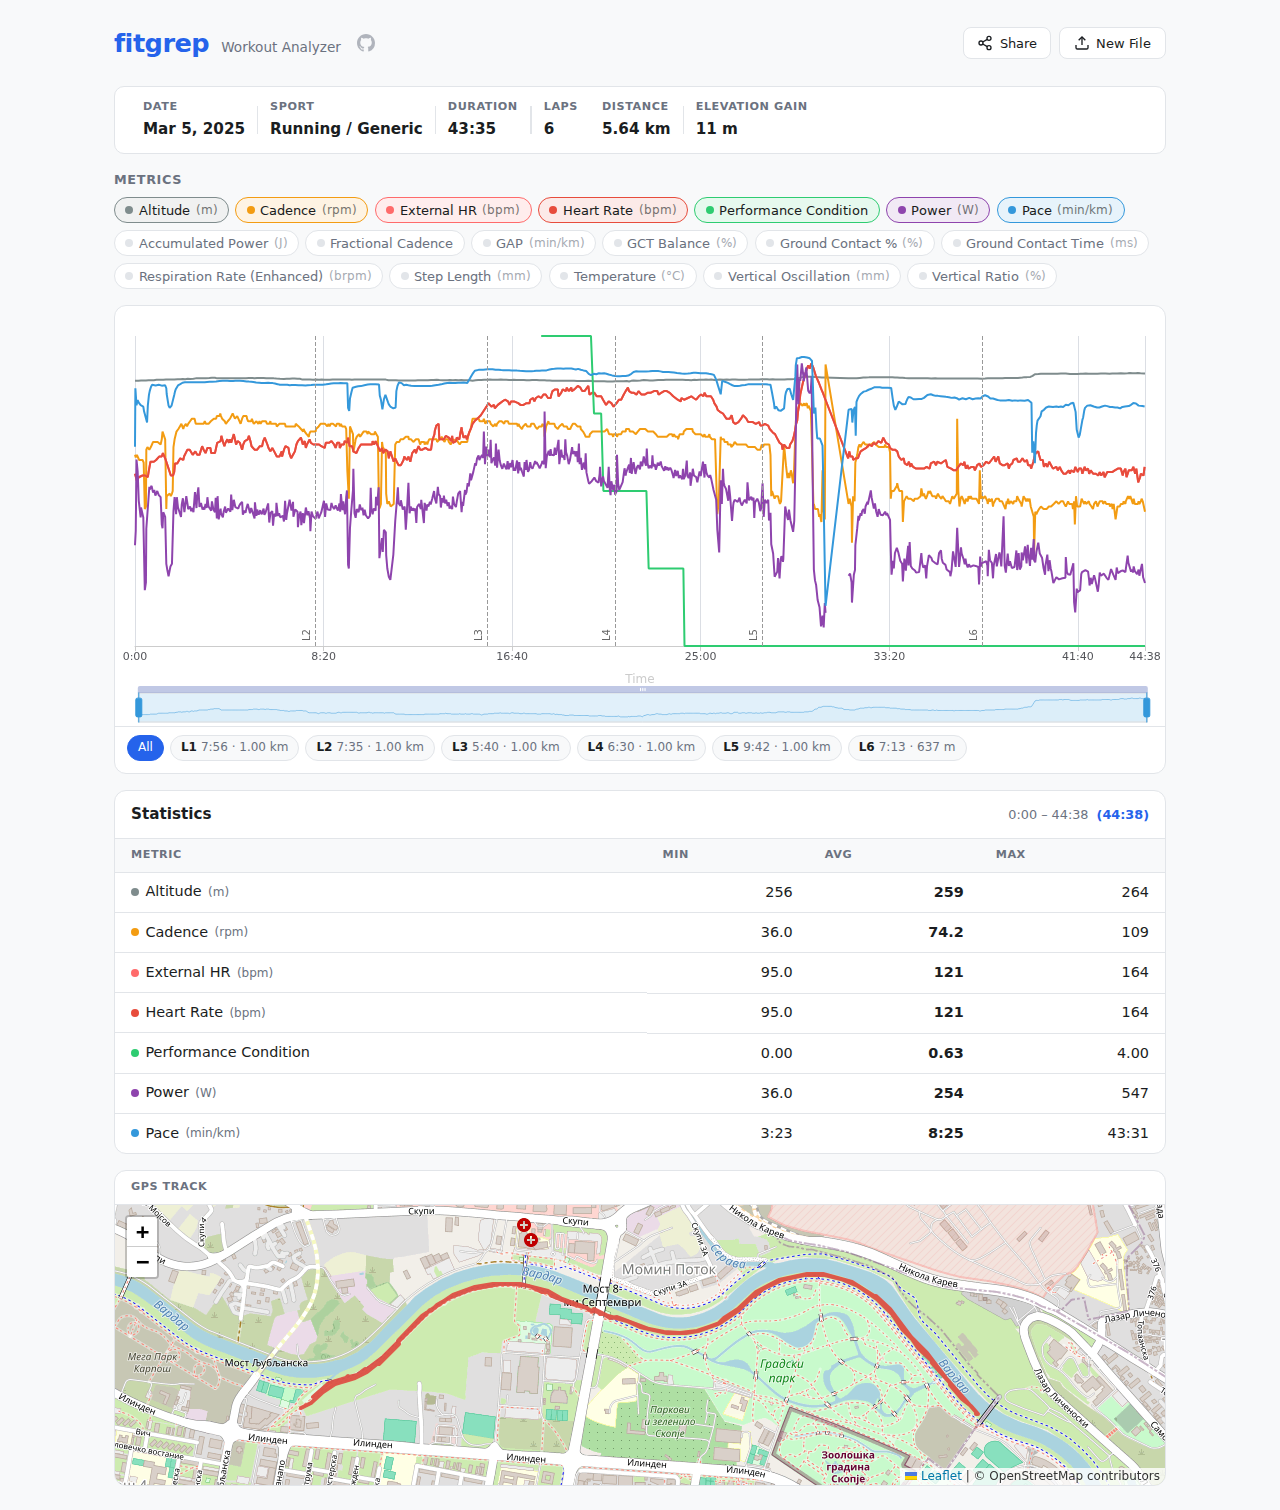
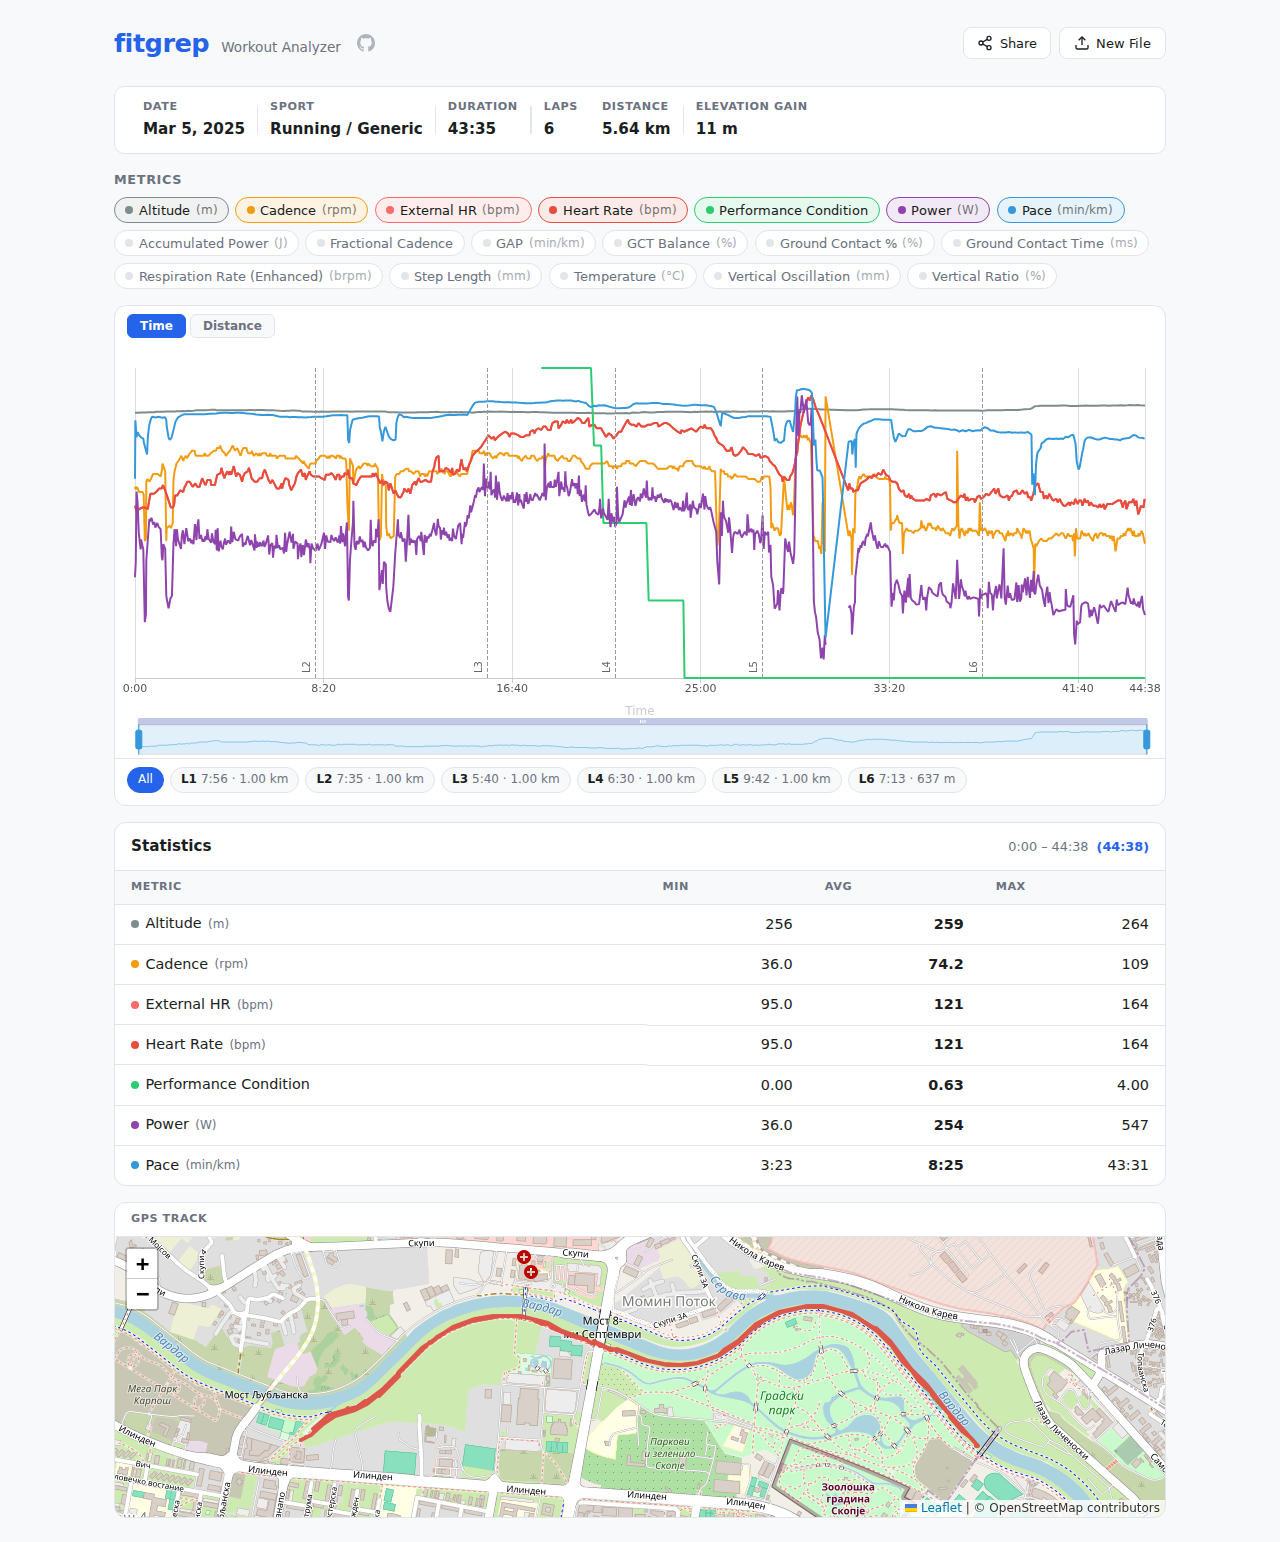
refactor: hoist lap startDistance to parser, derive hasDistance, slim AGENTS.md
Chart/parser:
- Move cumulative-distance-at-lap-start computation from the chart's
  $effect into parser.ts. Uses a monotonic cursor walk (O(n+m) instead
  of O(n·m)). New optional LapInfo.startDistance field.
- Replace `hasDistance` $state-written-inside-$effect with a $derived
  from store.data. Removes the reactive-write-in-effect anti-pattern.
- Collapse 8 repeated `axis === 'distance' && hasDistance` ternaries to
  a single `useDistance` + `fmtX` pair inside the rebuild effect.
- Fix inconsistent indentation on the axis-toggle buttons.

Tests:
- test-fitgrep.cjs was pointing at the deployed site; switch to
  http://localhost:5173 so it actually exercises local changes.
- Replace the fragile `Object.keys(chartEl).find(k => chartEl[k].getOption)`
  scan in test-lap-lines.cjs with a stable `chartEl.__echarts` property
  set by WorkoutChart after init.

Docs:
- Rewrite AGENTS.md (~8.8KB -> ~3.4KB): drop duplicated test sections,
  the full sharing runbook (now in worker/README.md), per-component
  descriptions, and the patch field table (now in patches/). Keep the
  design decisions, gotchas, and commands that agents actually need.

Verified: svelte-check clean, build passes, both Playwright tests pass
against local dev server (lap lines at 1002/2003/3002/4003/5003m).

diff --git a/src/components/WorkoutChart.svelte b/src/components/WorkoutChart.svelte
@@ -8,7 +8,9 @@
 	let chart: EChartsType | null = $state(null);
 	let resizeObserver: ResizeObserver | null = null;
 	let chartReady = $state(false);
-	let hasDistance = $state(false);
+	// Derived — true when the loaded workout has a distance stream.
+	// Used to gate the Time/Distance toggle and x-axis mode.
+	const hasDistance = $derived(store.data?.records?.[0]?.distance != null);
 
 	// Guard flag: suppress datazoom events during programmatic zoom changes
 	let suppressingZoomEvents = false;
@@ -16,6 +18,9 @@
 	onMount(async () => {
 		const echarts = await import('echarts');
 		chart = echarts.init(chartEl, undefined, { renderer: 'canvas' });
+		// Expose instance on the DOM node for tests (stable across ECharts versions,
+		// unlike scanning enumerable properties for one with a getOption method).
+		(chartEl as any).__echarts = chart;
 		chartReady = true;
 		resizeObserver = new ResizeObserver(() => chart?.resize());
 		resizeObserver.observe(chartEl);
@@ -98,8 +103,10 @@
 			return;
 		}
 
-		// Check if distance field is available in records
-		hasDistance = records.length > 0 && records[0].distance != null;
+		// Shared helpers for x-axis basis. Once distance mode is decided, the rest of
+		// the build just calls fmtX() and reads useDistance — no more scattered ternaries.
+		const useDistance = axis === 'distance' && hasDistance;
+		const fmtX = (v: number) => (useDistance ? formatDistance(v) : formatElapsed(v));
 
 		// Build Y-axes: each enabled field gets its own axis (all hidden, so no visual clutter)
 		const axisMap = new Map<string, number>();
@@ -115,7 +122,7 @@
 			type: 'line' as const,
 			data: records.map((r) => {
 				const val = r[field.key];
-				const xVal = axis === 'distance' && r.distance != null ? r.distance : r.elapsed;
+				const xVal = useDistance && r.distance != null ? r.distance : r.elapsed;
 				return val != null ? [xVal, val] : [xVal, null];
 			}),
 			yAxisIndex: axisMap.get(field.key) ?? 0,
@@ -129,20 +136,12 @@
 			connectNulls: false,
 		}));
 
-		// Build markLines: use lap boundaries if available, otherwise fall back to 5-min intervals
+		// Build markLines: use lap boundaries if available, otherwise fall back to 5-min intervals.
+		// lap.startDistance is populated upstream in parser.ts — no per-rebuild lookup needed.
 		const markLineData: any[] = [];
 		if (laps.length > 0) {
-			// Compute cumulative distance at each lap start (for distance-axis mark lines)
-			const lapCumulativeDistances = laps.map((lap) => {
-				// Find the record at the lap's start elapsed time
-				let idx = 0;
-				for (let j = 0; j < records.length; j++) {
-					if (records[j].elapsed >= lap.startElapsed) { idx = j; break; }
-				}
-				return records[idx]?.distance ?? null;
-			});
 			for (let i = 1; i < laps.length; i++) {
-				const lapXVal = axis === 'distance' && lapCumulativeDistances[i] != null ? lapCumulativeDistances[i] : laps[i].startElapsed;
+				const lapXVal = useDistance && laps[i].startDistance != null ? laps[i].startDistance! : laps[i].startElapsed;
 				markLineData.push({
 					xAxis: lapXVal,
 					label: {
@@ -159,15 +158,14 @@
 				});
 			}
 		} else {
-			const maxVal = axis === 'distance' && hasDistance
-				? records[records.length - 1].distance!
-				: records[records.length - 1].elapsed;
-			const interval = axis === 'distance' && hasDistance ? 500 : 300;
+			const lastRec = records[records.length - 1];
+			const maxVal = useDistance ? lastRec.distance! : lastRec.elapsed;
+			const interval = useDistance ? 500 : 300;
 			for (let t = interval; t < maxVal; t += interval) {
 				markLineData.push({
 					xAxis: t,
 					label: {
-						formatter: axis === 'distance' && hasDistance ? formatDistance(t) : formatElapsed(t),
+						formatter: fmtX(t),
 						position: 'insideStartTop' as const,
 						fontSize: 10,
 						color: '#999',
@@ -207,7 +205,7 @@
 				formatter: (params: any[]) => {
 					if (!params || params.length === 0) return '';
 					const axisVal = params[0].axisValue;
-					let html = `<div style="font-weight:600;margin-bottom:4px">${axis === 'distance' && hasDistance ? formatDistance(axisVal) : formatElapsed(axisVal)}</div>`;
+					let html = `<div style="font-weight:600;margin-bottom:4px">${fmtX(axisVal)}</div>`;
 					for (const p of params) {
 						const yVal = Array.isArray(p.value) ? p.value[1] : p.value;
 						if (yVal != null) {
@@ -226,13 +224,13 @@
 			},
 			xAxis: {
 				type: 'value',
-				name: axis === 'distance' && hasDistance ? 'Distance' : 'Time',
+				name: useDistance ? 'Distance' : 'Time',
 				nameLocation: 'center',
 				nameGap: 30,
 				min: 'dataMin',
 				max: 'dataMax',
 				axisLabel: {
-					formatter: (val: number) => (axis === 'distance' && hasDistance ? formatDistance(val) : formatElapsed(val)),
+					formatter: fmtX,
 					fontSize: 11,
 				},
 				axisLine: { lineStyle: { color: '#ccc' } },
@@ -265,7 +263,7 @@
 						lineStyle: { color: '#3498db' },
 						areaStyle: { color: 'rgba(52, 152, 219, 0.1)' },
 					},
-					labelFormatter: (val: number) => (axis === 'distance' && hasDistance ? formatDistance(val) : formatElapsed(val)),
+					labelFormatter: fmtX,
 				},
 				{
 					type: 'inside',
@@ -350,11 +348,11 @@
 		<div class="axis-toggle">
 			<button
 				class="axis-btn {store.chartAxis === 'time' ? 'active' : ''}"
-			onclick={() => store.setChartAxis('time')}
+				onclick={() => store.setChartAxis('time')}
 			>Time</button>
 			<button
 				class="axis-btn {store.chartAxis === 'distance' ? 'active' : ''}"
-			onclick={() => store.setChartAxis('distance')}
+				onclick={() => store.setChartAxis('distance')}
 			>Distance</button>
 		</div>
 	{/if}

diff --git a/src/lib/parser.ts b/src/lib/parser.ts
@@ -184,9 +184,12 @@ export async function parseFitFile(buffer: ArrayBuffer): Promise<WorkoutData> {
 		if (summary.maxSpeed != null) summary.maxSpeed *= 3.6;
 	}
 
-	// Extract lap data
+	// Extract lap data. Since both laps and dataPoints are time-ordered, we walk
+	// records with a monotonic cursor to attach cumulative distance at each lap
+	// start in O(n + m) rather than O(n·m).
 	const laps: LapInfo[] = [];
 	const fitLaps: any[] = raw.laps ?? [];
+	let recordCursor = 0;
 	for (let i = 0; i < fitLaps.length; i++) {
 		const lap = fitLaps[i];
 		const startTs = lap.start_time ? new Date(lap.start_time).getTime() : null;
@@ -208,12 +211,20 @@ export async function parseFitFile(buffer: ArrayBuffer): Promise<WorkoutData> {
 			endElapsed = i < fitLaps.length - 1 && fitLaps[i + 1].start_time ? (new Date(fitLaps[i + 1].start_time).getTime() - firstTimestamp) / 1000 : dataPoints[dataPoints.length - 1].elapsed;
 		}
 
+		// Advance cursor to the first record at or after this lap's start
+		const clampedStart = Math.max(0, startElapsed);
+		while (recordCursor < dataPoints.length && dataPoints[recordCursor].elapsed < clampedStart) {
+			recordCursor++;
+		}
+		const startDistance = dataPoints[recordCursor]?.distance;
+
 		laps.push({
 			number: i + 1,
-			startElapsed: Math.max(0, startElapsed),
+			startElapsed: clampedStart,
 			endElapsed: Math.max(startElapsed, endElapsed),
 			duration: duration ?? (endElapsed - startElapsed),
 			distance: lap.total_distance ?? null,
+			startDistance,
 			trigger: (lap.lap_trigger ?? '').toLowerCase().replace(/_/g, ' '),
 		});
 	}

diff --git a/src/lib/types.ts b/src/lib/types.ts
@@ -66,6 +66,8 @@ export interface LapInfo {
 	duration: number;
 	/** Distance in meters, if available */
 	distance: number | null;
+	/** Cumulative distance (m) at lap start, from the record stream — use this to plot lap boundaries on a distance x-axis */
+	startDistance?: number;
 	/** Trigger type (e.g. 'manual', 'distance', 'time') */
 	trigger: string;
 }

diff --git a/AGENTS.md b/AGENTS.md
@@ -1,171 +1,70 @@
 # fitgrep — Agent Guide
 
-## Project Overview
+Single-page web app for exploring Garmin `.FIT` workout files. Charts + GPS map + MIN/AVG/MAX stats with timeline selection. Frontend-only; optional Cloudflare Worker (`worker/`) powers share-by-link.
 
-Single-page web app that lets athletes upload Garmin .FIT workout files and explore performance data through interactive charts with timeline-based selection for MIN/AVG/MAX statistics. Frontend-only app with an optional Cloudflare Worker backend for share-by-link functionality.
+## Stack
 
-## Tech Stack
+- **Svelte 5 + TypeScript** — runes-based reactivity (`$state`, `$derived`, `$effect`)
+- **Vite** build
+- **`fit-file-parser`** — NOT `@garmin/fitsdk` (stream-based, unsuitable for browser). Patched via `patch-package` to recover undocumented Garmin record fields; see `patches/fit-file-parser+2.3.3.patch`. Postinstall script applies it.
+- **Apache ECharts v5** (lazy-loaded)
+- **Leaflet + OSM** (lazy-loaded)
 
-- **Framework**: Svelte 5 + TypeScript (runes-based reactivity with `$state`)
-- **Build**: Vite
-- **FIT Parsing**: `fit-file-parser` (NOT `@garmin/fitsdk` — that one has a stream-based API unsuitable for browser use). **Patched** with `patch-package` to add undocumented Garmin record fields (see below).
-- **Charts**: Apache ECharts v5 (lazy-loaded)
-- **Maps**: Leaflet + OpenStreetMap (lazy-loaded)
-- **Styling**: CSS variables + Svelte scoped styles
-
-## Architecture
+## Source layout
 
 ```
 src/
-├── main.ts                      # App entry point
-├── app.css                      # Global CSS variables & base styles
-├── App.svelte                   # Root layout: upload ↔ data view
+├── App.svelte                # root: upload ↔ data view
 ├── lib/
-│   ├── types.ts                 # Core types: DataPoint, FieldInfo, WorkoutSummary, SelectionRange
-│   ├── fieldConfig.ts           # FIT field → label/unit/scale/color mapping (snake_case keys!)
-│   ├── parser.ts                # FIT file → WorkoutData (async, returns Promise)
-│   ├── stats.ts                 # MIN/AVG/MAX calc, formatting utilities
-│   ├── store.svelte.ts          # Svelte 5 reactive store (module-level $state + getter fns)
-│   ├── storage.ts               # LocalStorage persistence for uploaded FIT files
-│   ├── share.ts                 # Share-by-link: upload/load shared workouts via Cloudflare Worker
-│   └── preferences.ts           # Cookie/localStorage for field preferences & last viewed file
-└── components/
-    ├── UploadZone.svelte        # Drag & drop + file input, calls parser via dynamic import
-    ├── StoredFiles.svelte       # Lists previously uploaded workouts from local storage
-    ├── ErrorBar.svelte          # Dismissable error notifications
-    ├── FieldSelector.svelte     # Toggleable chips for discovered metrics
-    ├── WorkoutChart.svelte      # ECharts multi-series chart with Time/Distance axis toggle + dataZoom slider
-    ├── StatsPanel.svelte        # MIN/AVG/MAX table, selection-aware (shows distance range when chart is in distance mode)
-    ├── GpsMap.svelte            # Leaflet map with track + selection highlight
-    ├── WorkoutSummary.svelte    # Date, sport, duration, distance, elevation bar
-    └── ShareModal.svelte        # Share-by-link modal: upload workout, get copyable URL
+│   ├── types.ts              # DataPoint, FieldInfo, WorkoutSummary, SelectionRange, LapInfo
+│   ├── fieldConfig.ts        # FIT field → label/unit/scale/color (snake_case keys!)
+│   ├── parser.ts             # async parseFitFile() → WorkoutData
+│   ├── stats.ts              # MIN/AVG/MAX + formatters
+│   ├── store.svelte.ts       # module-level $state + getters (no context provider)
+│   ├── storage.ts            # localStorage for uploaded FIT blobs
+│   ├── preferences.ts        # cookie (field prefs) + localStorage (last file)
+│   └── share.ts              # upload/load shared workouts via Worker
+└── components/               # UploadZone, WorkoutChart, StatsPanel, GpsMap, etc.
 ```
 
-## Key Design Decisions
+## Design decisions
 
-1. **Field names are snake_case** — `fit-file-parser` outputs `heart_rate`, `enhanced_speed`, etc. NOT camelCase. All field lookups in `fieldConfig.ts` use snake_case keys.
+1. **snake_case fields.** `fit-file-parser` outputs `heart_rate`, `enhanced_speed`, etc. All lookups in `fieldConfig.ts` use snake_case.
+2. **Module-level reactive store.** `store.svelte.ts` uses `$state` runes at module scope, exports an object of getters. Fine-grained reactivity, no provider.
+3. **Lazy load** ECharts, Leaflet, and the parser to keep the main chunk small (~62 KB).
+4. **Data-agnostic.** Fields discovered at parse time; unknown ones get humanized labels and are off by default.
+5. **Scale conversion at parse time** (e.g. speed ×3.6 → km/h). Downstream code uses converted values.
 
-2. **Store pattern** — `store.svelte.ts` uses Svelte 5 `$state` runes at module level, exported as an object with getters. This gives fine-grained reactivity without a context provider.
+## Gotchas
 
-3. **Lazy loading** — ECharts, Leaflet, and the parser are all dynamically imported to keep the initial bundle small (~62KB main chunk).
+- `parseFitFile()` is **async** — always `await`.
+- `bind:this` refs (chart/map containers) trigger spurious `$state` warnings — ignore them; don't wrap in `$state`.
+- ECharts `dataZoom` fires frequently; store writes are sync so no throttling needed.
+- `store.chartAxis` (`'time' | 'distance'`) changes only the x-axis representation, not the selection indices.
+- GPS track ↔ record index mapping is fractional, not 1:1.
+- FIT positions are semicircles; parser converts to degrees.
+- Sample file: `externalHR.fit` in repo root.
 
-4. **Data-agnostic** — Fields are discovered at parse time from FIT record messages. Unknown fields get humanized labels and are disabled by default.
+## Sharing
 
-5. **Scale conversion** happens at parse time in `parser.ts` (e.g., speed ×3.6 for km/h). Chart and stats work with already-converted values.
-
-## Important Gotchas
-
-- **fit-file-parser patch**: The library silently drops Garmin record fields it doesn't recognize (undocumented in the FIT SDK). We use `patch-package` (`patches/fit-file-parser+2.3.3.patch`) to add field definitions for these undocumented record message fields:
-  - field 90 (performance_condition, sint8)
-  - field 99 (respiration_rate, uint8)
-  - field 108 (enhanced_respiration_rate, uint16, scale 100)
-  - field 116 (current_stress, uint16, scale 100)
-  - field 136 (wrist_heart_rate, uint8)
-  - field 137 (stamina_potential, uint16, scale 10)
-  - field 138 (stamina, uint16, scale 10)
-  - field 139 (core_temperature, uint16, scale 100)
-  - field 140 (grade_adjusted_speed, uint32, scale 1000)
-  - field 143 (body_battery, uint8)
-  - field 144 (external_heart_rate, uint8)
-  
-  Sources: [fit-parser PR #45](https://github.com/jimmykane/fit-parser/pull/45) and [Gadgetbridge GlobalFITMessage.java](https://codeberg.org/Freeyourgadget/Gadgetbridge/src/tag/0.88.0/app/src/main/java/nodomain/freeyourgadget/gadgetbridge/service/devices/garmin/fit/GlobalFITMessage.java). The patch runs on `npm install` via the `postinstall` script. If you ever update `fit-file-parser`, check the patch still applies.
-
-- `parseFitFile()` is **async** (returns Promise) — always `await` it
-- `bind:this` variables (like chart/map containers) trigger Svelte warnings about `$state` — these are false positives, don't add `$state` to them
-- ECharts `dataZoom` event fires frequently; store updates are synchronous so no throttling needed
-- `store.chartAxis` controls whether the chart X-axis shows elapsed time or cumulative distance; switching axis doesn't change the underlying selection indices, only the x-axis representation
-- GPS track ↔ record index mapping is approximate (fractional), not 1:1
-- FIT files store position as degrees (parser handles conversion from semicircles)
-- Sample files in repo root: `externalHR.fit`
-
-## Sharing — Cloudflare Worker + R2
-
-The share-by-link feature uses a Cloudflare Worker deployed separately from the main app.
-
-```
-worker/
-├── src/index.ts       # Worker: POST /share, GET /share/:id
-├── wrangler.toml      # R2 binding + CORS config
-├── package.json
-└── README.md           # Deployment instructions
-```
-
-**How it works:**
-1. User clicks "Share" → frontend uploads FIT file (base64) + enabled fields to the worker
-2. Worker stores the payload in R2 and returns a short ID (8 alphanumeric chars)
-3. Recipient opens `fitgrep.app?s=<id>` → frontend detects the param, fetches the payload, parses and displays
-4. The shared workout is also saved to the recipient's localStorage for easy re-access
-5. Shares auto-expire after 90 days
-
-**Configuration:**
-- `VITE_SHARE_API` env var (defaults to `http://localhost:8787` for dev)
-- Worker `CORS_ORIGIN` var (set to production domain in `wrangler.toml`)
-
-**Worker commands:**
-```bash
-cd worker
-npm install
-npx wrangler r2 bucket create fitgrep-shares  # one-time bucket creation
-npx wrangler dev                                 # local dev
-cd .. && VITE_SHARE_API=http://localhost:8787 npm run dev  # frontend + worker together
-```
-
-**Deploy worker:**
-```bash
-cd worker && npx wrangler deploy
-```
-Then set `VITE_SHARE_API` to the worker URL (custom domain or `*.workers.dev`) for production builds.
+Share-by-link uses a Cloudflare Worker + R2 bucket in `worker/`. See **`worker/README.md`** for deployment, endpoints, and local dev. Frontend points at `VITE_SHARE_API` (defaults to `http://localhost:8787`).
 
 ## Commands
 
 ```bash
-npm run dev      # Vite dev server on :5173
-npm run build    # Production build to dist/
-npm run preview  # Preview production build
-npx svelte-check # Type checking
+npm run dev        # Vite on :5173
+npm run build      # production → dist/
+npx svelte-check   # types
+node test-fitgrep.cjs      # Playwright UI test (upload + screenshots)
+node test-lap-lines.cjs    # regression: lap mark line positioning on distance axis
 ```
 
-**Always commit and push after making changes** — the site is deployed via GitHub Pages from the repo, so changes only go live once pushed.
+See `test-fitgrep-instructions.md` for selectors and workflow.
 
-## GitHub Pages
+## Deploy
 
-Deploy workflow at `.github/workflows/deploy.yml` — builds and deploys via GitHub Actions. Source must be set to "GitHub Actions" in repo Settings → Pages.
+GitHub Pages via `.github/workflows/deploy.yml`. Source must be set to "GitHub Actions" in repo settings. **Commit and push after changes** — that's the deploy trigger.
 
-## Testing
+## Roadmap
 
-### Automated UI Testing (Playwright)
-
-Run the Playwright test script at **`test-fitgrep.cjs`** for headless browser testing. It uploads a sample `.FIT` file and captures before/after screenshots while inspecting DOM changes.
-
-```bash
-cd /home/shipadmin/fitgrep
-node test-fitgrep.cjs
-```
-
-See `test-fitgrep-instructions.md` for the full setup, element selectors, and workflow.
-
-#### Lap Line Positioning Regression Test
-
-**`test-lap-lines.cjs`** — verifies that vertical lap boundary lines are correctly positioned on the chart when the x-axis is set to Distance mode. In distance mode, lap lines should be spread across the chart at cumulative distances, not clustered at each lap's individual distance.
-
-```bash
-cd /home/shipadmin/fitgrep
-node test-lap-lines.cjs
-```
-
-### Manual Verification
-
-- `npx svelte-check` — type checking
-- `npm run build` — full production build
-- `node test-fitgrep.cjs` — automated UI tests (see above)
-- `node test-lap-lines.cjs` — lap line positioning regression test
-- Manual testing in browser: upload a .FIT file, verify chart renders, check stats table, verify GPS map, test Time/Distance axis toggle
-
-## Future Enhancements (from PLAN.md)
-
-- Multiple file comparison
-- Export selection as CSV
-- Lap-by-lap analysis
-- Pace zones / HR zones overlay
-- Dark/light theme toggle
-- Direct brush selection on chart area (not just slider)
+See `PLAN.md`.
